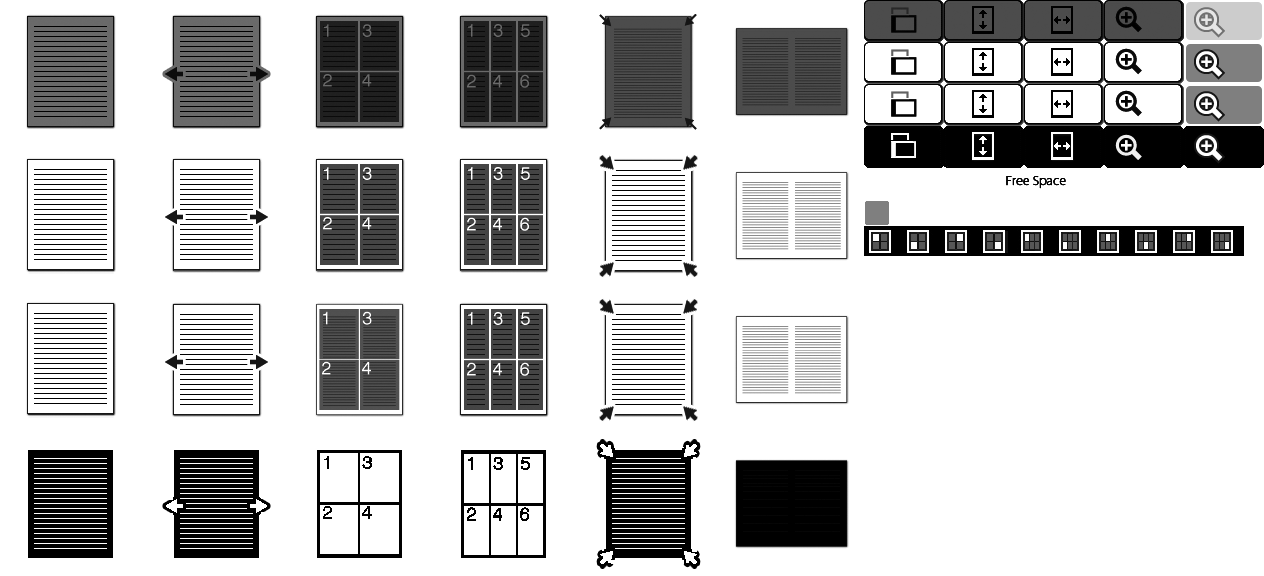
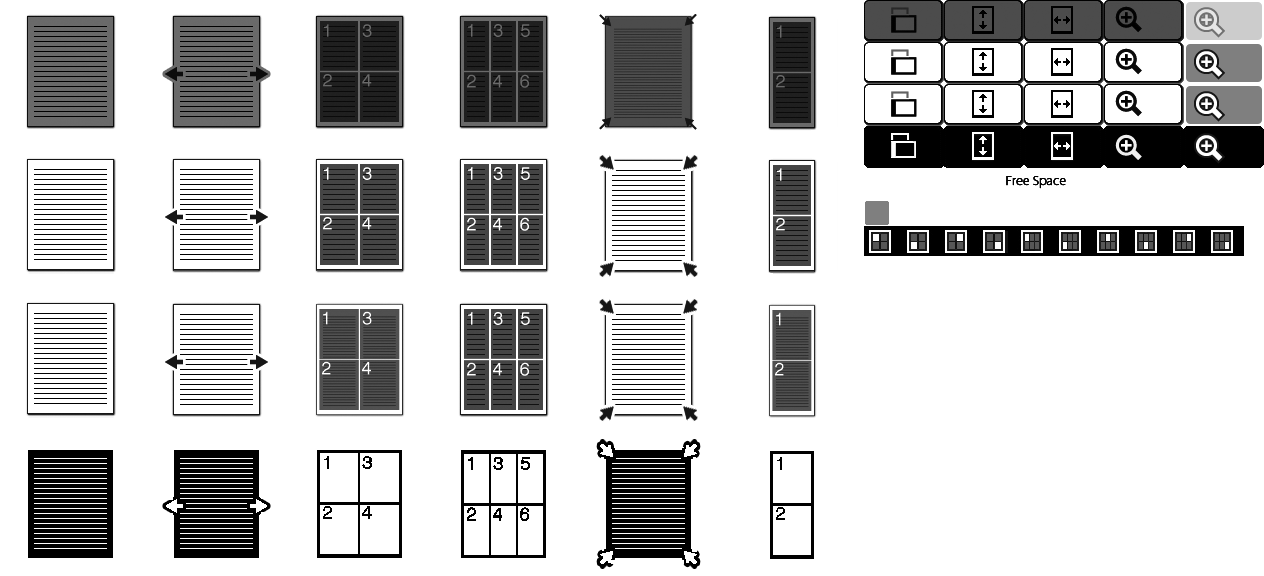
ViewerSettings_x50: Added 1-Column Split for 350 & 650

Changed region(s): [[0.5554, 0.0, 0.6788, 0.75], [0.5554, 0.7812, 0.6788, 0.9688]]

diff --git a/script/addons1/ViewerSettings_x50.js b/script/addons1/ViewerSettings_x50.js
@@ -20,6 +20,7 @@
 //	2011-09-13 quisvir - Added input dialog for custom contrast & brightness values
 //	2011-09-29 quisvir - Added Page Turn by Single Tap
 //	2011-10-01 quisvir - Close reading popup menu (dict etc) and cancel selection by tapping page
+//	2011-10-05 quisvir - Added 1-Column split for 350 & 650
 
 tmp = function() {
 
@@ -359,6 +360,65 @@ tmp = function() {
 		if (this.monochrome.isRunning()) {
 			this.monochrome.setFrameInfo(this.getCurrentID(), this.mapPage(this.getPage()), this.getPageOffset(), this.getPart(), this.yOffset);
 		}
+	};
+	
+	// 1-Column split
+	if (Core.config.model != '950') {
+		// add 1-column split function to be called from selectStyleOverlay.xml
+		kbook.model.container.sandbox.SELECT_STYLE_OVERLAY_GROUP.sandbox.VIEW.sandbox.SELECT_STYLE_OVERLAY.sandbox.doSplitPage2x1 = function () {
+			if (kbook.model.container.getVariable('ORIENTATION')) {
+				Core.ui.showMsg(L('ONLY_IN_PORTRAIT_ORIENTATION'));
+				return;
+			}
+			kbook.model.doSomething('switchNormalPage');
+			kbook.model.doSomething('switchSplitPage', 2);
+			pageSelectStyleOverlayModel.closeCurrentOverlay();
+		}
+		
+		// add calculations for 1-column split to resize function
+		var oldresizePageSplitPage = kbook.kbookPage.resizePageSplitPage;
+		kbook.kbookPage.resizePageSplitPage = function (splitNumber) {
+			if (splitNumber == 2) {
+				var screenWidth, screenHeight, pageWidth, pageHeight, xOffset, yOffset, bounds;
+				screenWidth = this.getSize(false) - 2 * this.marginWidth;
+				screenHeight = this.getSize(true) - 2 * this.marginHeight;
+				pageWidth = this._pageWidth;
+				pageHeight = this._pageHeight;
+				xOffset = 0;
+				yOffset = 0;
+				bounds = this.getPageCache(this.getPage(), this.getPageOffset(), this.getPart()).naturalBounds;
+				if (bounds) {
+					pageWidth = Math.floor(bounds.width / this.ratio);
+					xOffset = Math.floor(bounds.x / this.ratio);
+					pageHeight = Math.floor(bounds.height / this.ratio);
+					yOffset = Math.floor(bounds.y / this.ratio);
+				}
+				if (screenWidth <= pageWidth) {
+					Core.ui.showMsg(L('ONLY_TALL_DOCUMENTS'));
+					this.switchNormalPage();
+					return;
+				}
+				this.ratio = screenWidth / pageWidth;
+				this.overlapX = 0;
+				this.overlapY = pageHeight * ((screenWidth/pageWidth) - 1);
+				this.splitX = [xOffset * this.ratio, xOffset * this.ratio];
+				this.splitY = [0,pageHeight - this.overlapY];
+				this.splitWidth = screenWidth;
+				this.splitHeight = screenHeight;
+				this.splitNumber = 2;
+				this.numberOfLines = 2;
+				this.numberOfColumns = 1;
+				this.resizePage();
+				this.moveOffset(this.splitX[this.currentSplit], this.splitY[this.currentSplit]);
+			} else oldresizePageSplitPage.apply(this, arguments);
+		};
+		
+		// activate 1-column-split radio button if style is active
+		var oldopenSelectStyle = pageSelectStyleOverlayModel.openSelectStyle;
+		pageSelectStyleOverlayModel.openSelectStyle = function () {
+			oldopenSelectStyle.apply(this, arguments);
+			if (kbook.model.doSomething('getSplitPageColumns') == 1) this.setVariable('PAGE_STYLE_NO', 6);
+		};
 	};
 	
 	var ViewerSettings_x50 = {
